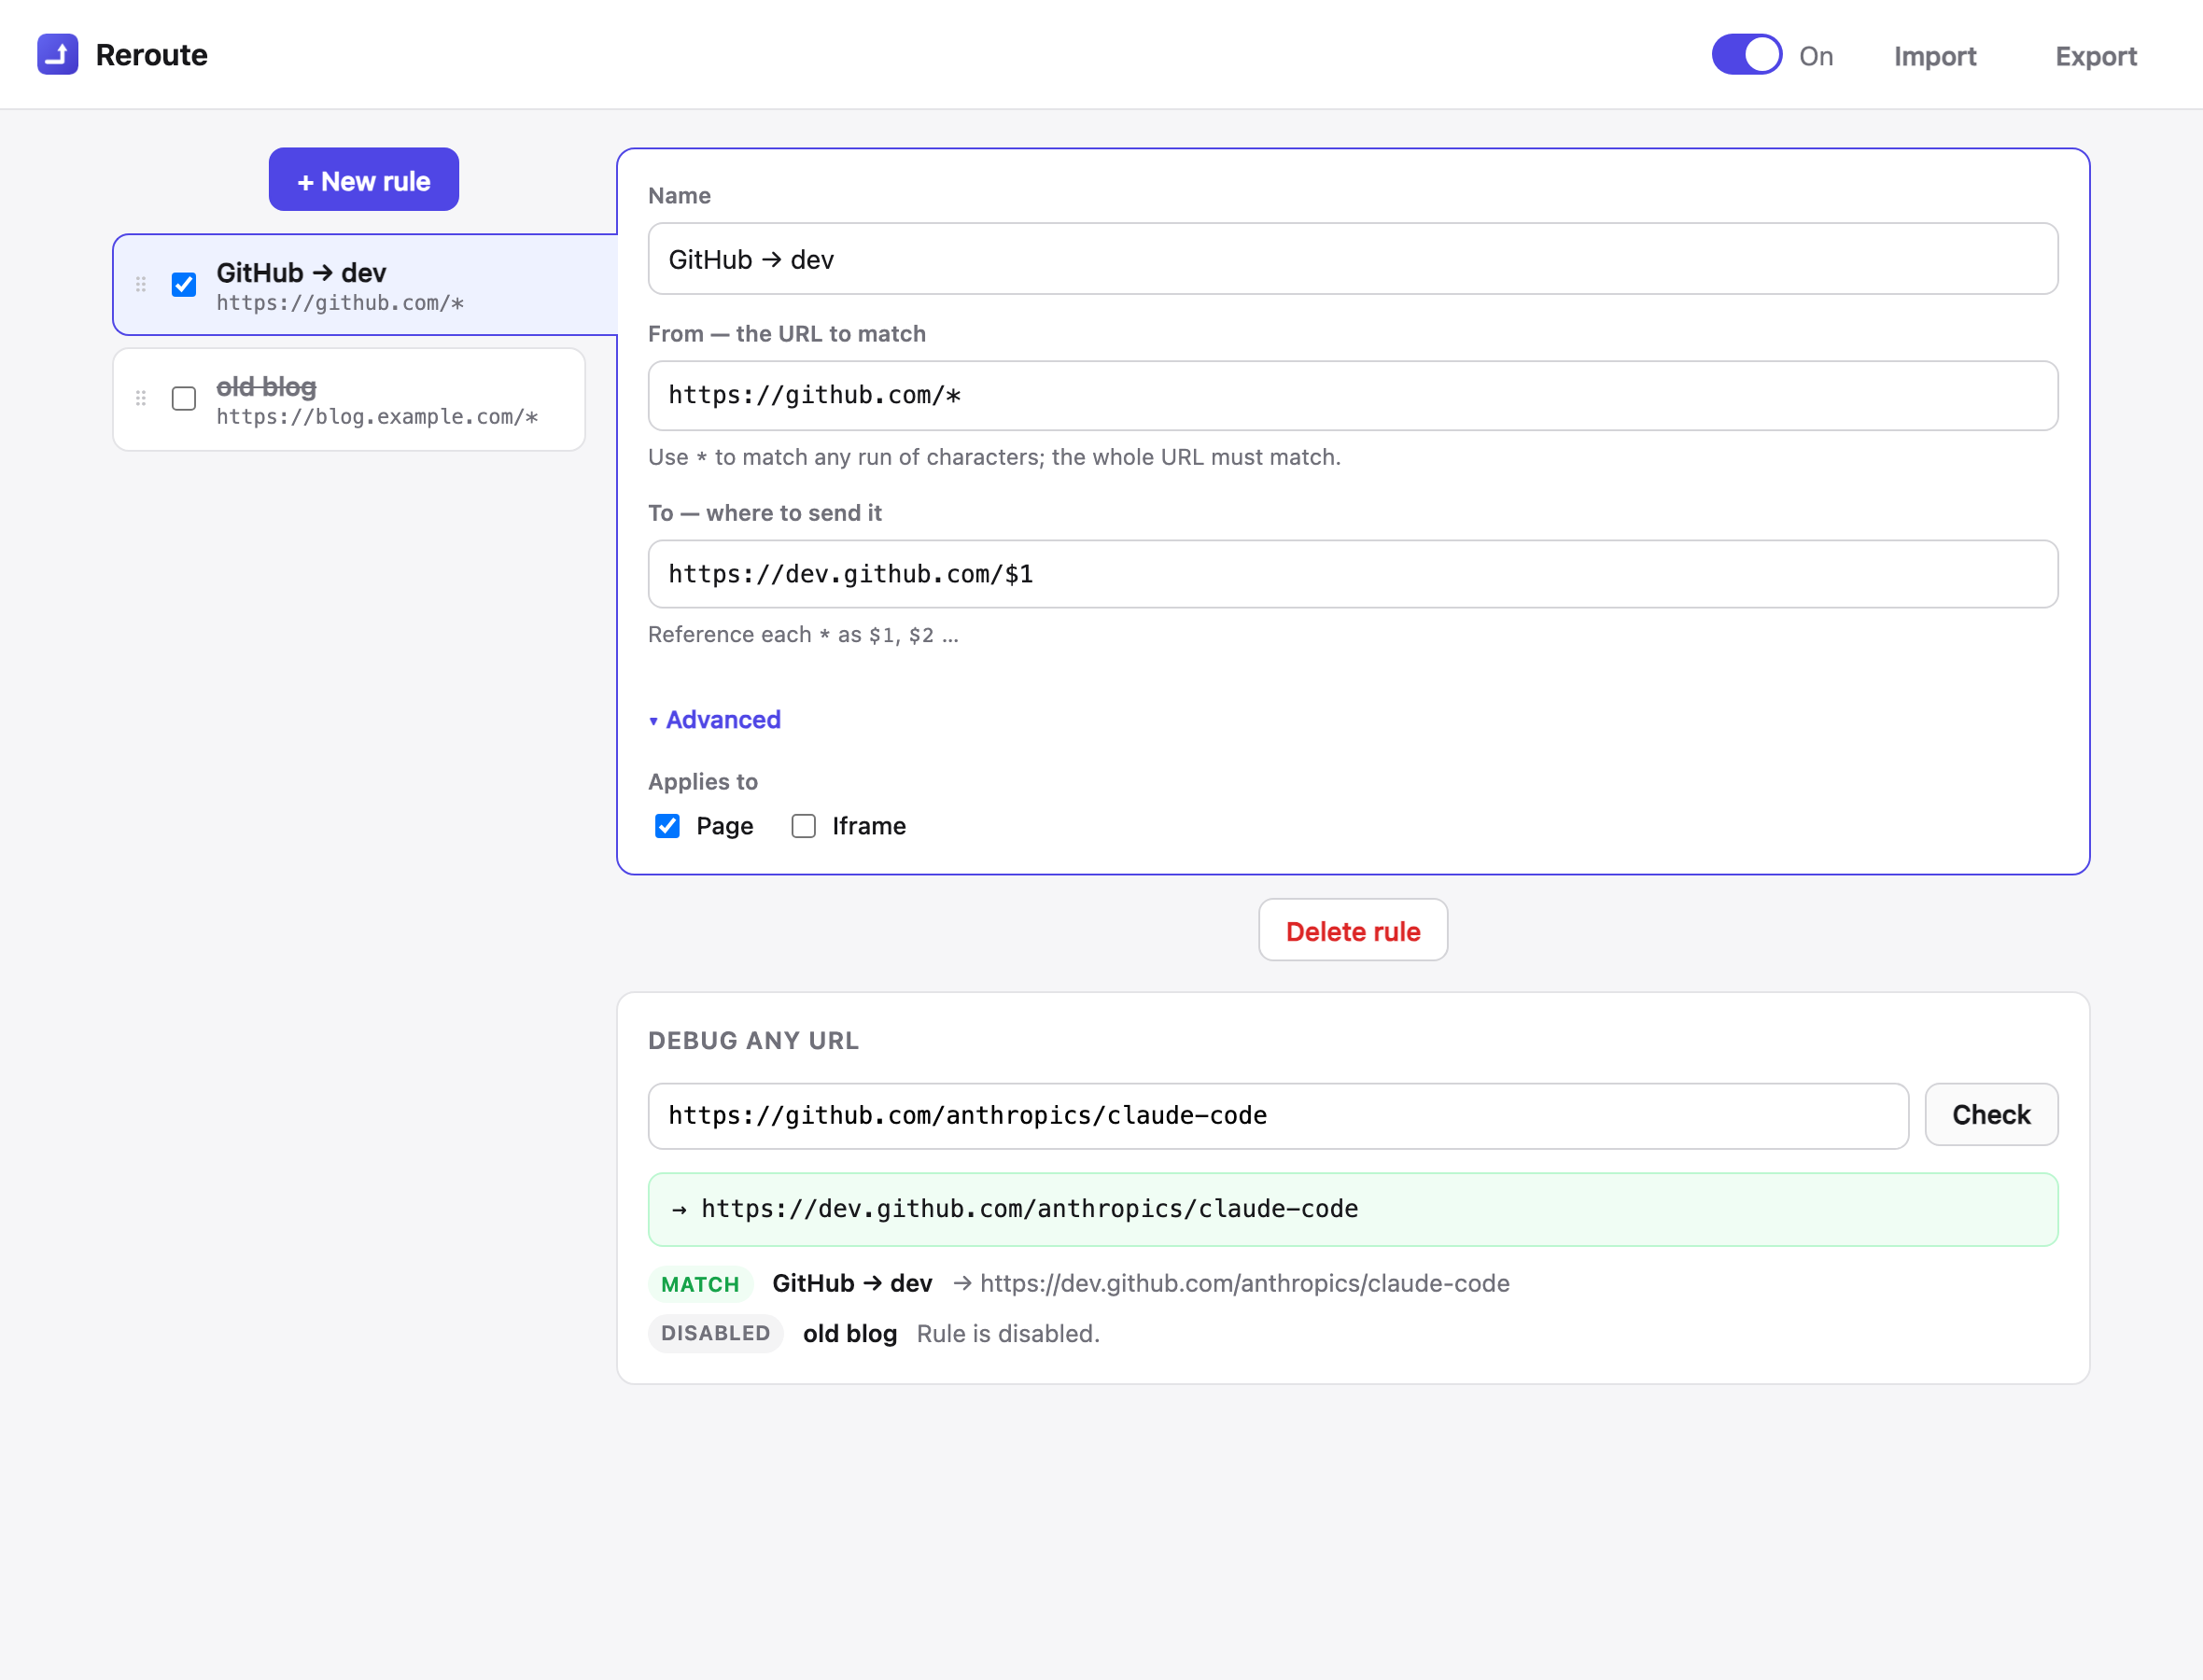
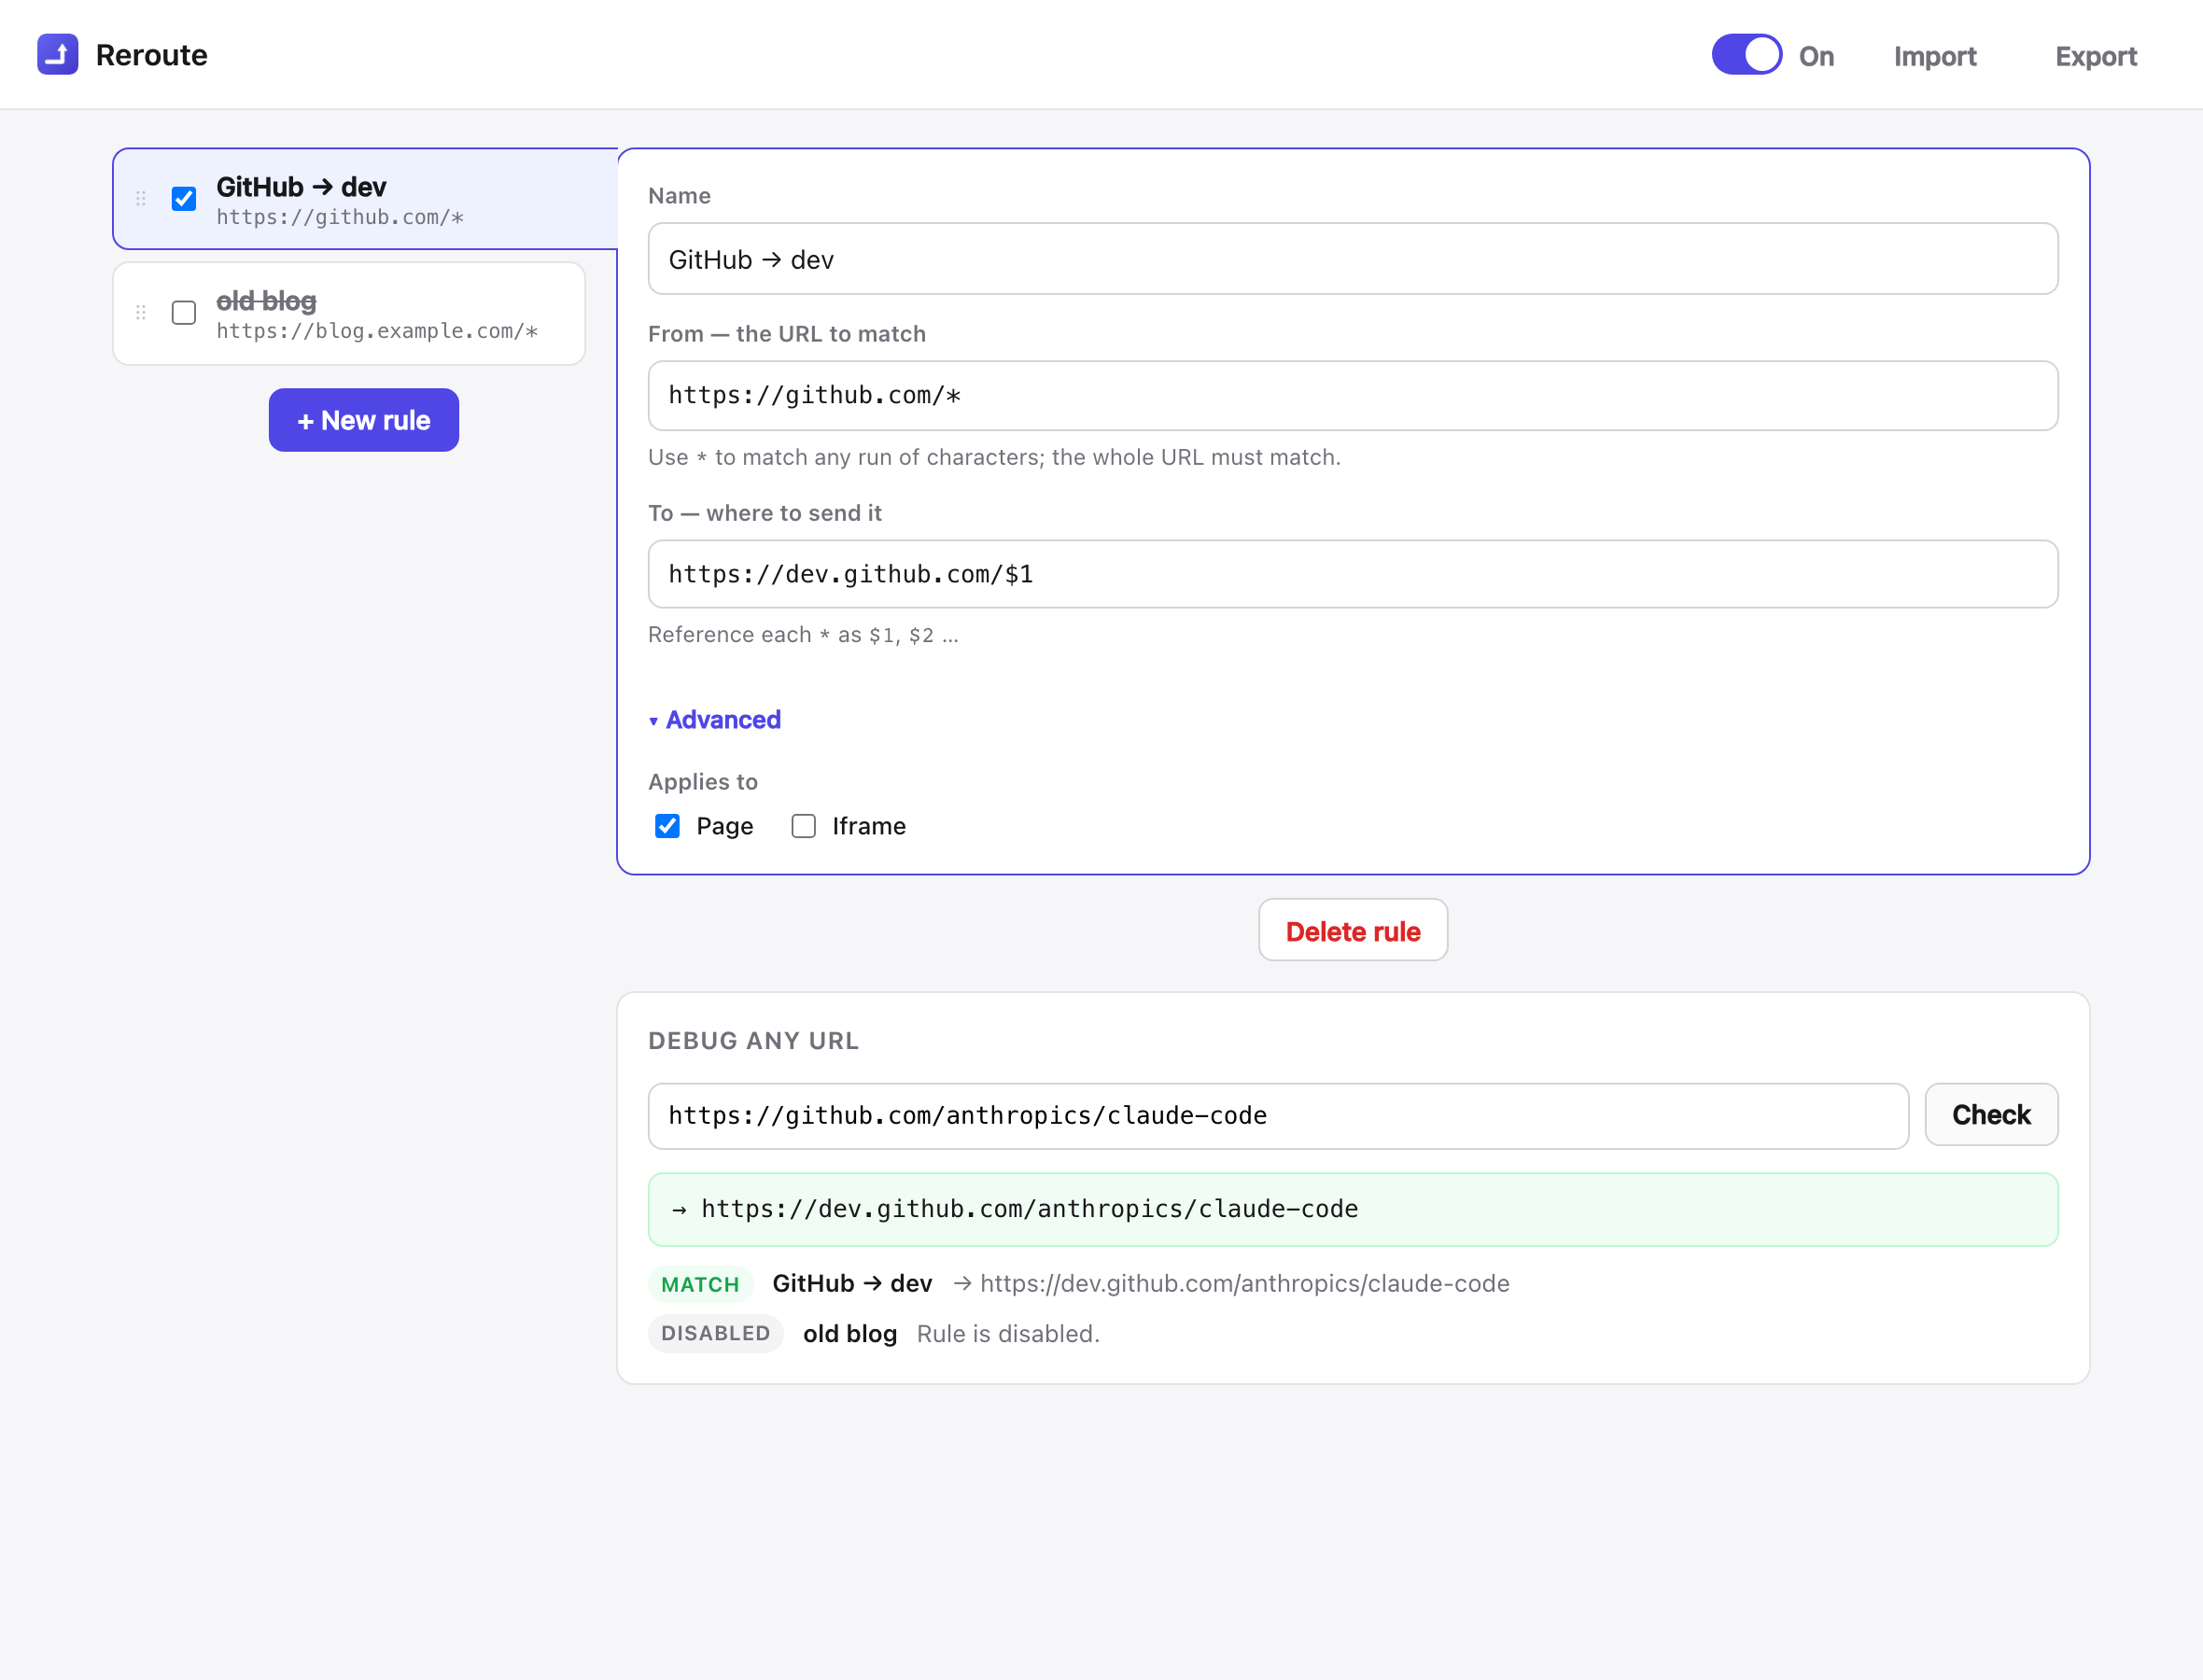
ui: top-bar font consistency, single New-rule button, unique default names
1. On/Import/Export now render identically (switch label weight 550 to match the
   buttons + page-wide font smoothing) — fixes the antialiasing mismatch
2. Remove the duplicate '+ New rule' button from the center empty state
3. Center the 'No rules yet' message so it aligns with the New-rule button
4. Move the '+ New rule' button below the rule list (was above)
5. New rules get a unique incrementing default name 'New rule N' (skips taken names)

test/ui.mjs: +5 checks (default-name increment, empty-state has no center button,
sidebar holds the only New-rule button) → 18 UI checks; 25 node tests green.

Changed region(s): [[0.0619, 0.0622, 0.2475, 0.28]]

diff --git a/ui/options.js b/ui/options.js
@@ -94,8 +94,7 @@ function renderEditor() {
   if (!rule) {
     host.append(
       el('div', { class: 'card editor-empty' },
-        el('p', {}, 'Select a rule on the left, or create one to start.'),
-        el('button', { class: 'btn primary', onclick: newRule }, '+ New rule'))
+        el('p', {}, 'Select a rule to edit it, or add one with “+ New rule”.'))
     );
     return;
   }
@@ -209,8 +208,15 @@ function buildDebugger() {
 }
 
 // ---------- actions ----------
+// "New rule N" with the smallest N not already taken by an existing rule name.
+function nextRuleName() {
+  const taken = new Set(state.rules.map((r) => r.name));
+  let n = 1;
+  while (taken.has(`New rule ${n}`)) n++;
+  return `New rule ${n}`;
+}
 function newRule() {
-  const rule = { id: uid(), name: 'New rule', enabled: true, from: '', to: '', resourceTypes: ['main_frame'] };
+  const rule = { id: uid(), name: nextRuleName(), enabled: true, from: '', to: '', resourceTypes: ['main_frame'] };
   state.rules.unshift(rule);
   state.selectedId = rule.id;
   renderList();

diff --git a/ui/options.css b/ui/options.css
@@ -22,6 +22,8 @@ html, body {
   background: var(--bg);
   color: var(--text);
   font: 14px/1.5 system-ui, -apple-system, "Segoe UI", Roboto, sans-serif;
+  -webkit-font-smoothing: antialiased;
+  -moz-osx-font-smoothing: grayscale;
 }
 
 /* ---------- top bar ---------- */
@@ -75,7 +77,7 @@ html, body {
 }
 .switch input:checked + .switch-track { background: var(--accent); }
 .switch input:checked + .switch-track::after { transform: translateX(16px); }
-.switch-label { font-size: 14px; color: var(--muted); min-width: 24px; }
+.switch-label { font-size: 14px; font-weight: 550; color: var(--muted); min-width: 24px; }
 
 /* ---------- layout ---------- */
 .layout {
@@ -107,7 +109,7 @@ html, body {
 .rule-item .rule-name { flex: 1; font-weight: 550; white-space: nowrap; overflow: hidden; text-overflow: ellipsis; }
 .rule-item .rule-from { display: block; font: 11px/1.3 var(--mono); color: var(--muted); white-space: nowrap; overflow: hidden; text-overflow: ellipsis; }
 .rule-item .mini { display: flex; flex-direction: column; min-width: 0; flex: 1; }
-.list-empty { color: var(--muted); padding: 14px 6px; font-size: 13px; }
+.list-empty { color: var(--muted); padding: 14px 0; font-size: 13px; text-align: center; margin-right: -16px; }
 
 /* selected row connects into the editor panel (one continuous accent outline) */
 .rule-item.selected {

diff --git a/ui/options.html b/ui/options.html
@@ -26,8 +26,8 @@
 
   <main class="layout">
     <aside class="sidebar">
-      <button class="btn primary" id="new-rule-btn">+ New rule</button>
       <ul class="rule-list" id="rule-list"></ul>
+      <button class="btn primary" id="new-rule-btn">+ New rule</button>
     </aside>
     <section class="editor" id="editor"></section>
   </main>

diff --git a/docs/STRIP.md b/docs/STRIP.md
@@ -10,6 +10,7 @@ and 23 node tests pass alongside these.
 | 2 | `screenshots/02-advanced.png` | "Applies to" hidden under the Advanced toggle, revealed on click. |
 | 3 | `screenshots/03-debugger.png` | "Debug any URL" (where testing now lives): names the winning rule + resulting URL, and explains every rule (MATCH / DISABLED pills). |
 | 4 | `screenshots/04-popup.png` | Toolbar popup: global on/off, active-rule count, open editor. |
+| 5 | `screenshots/05-empty.png` | Empty state: centered "No rules yet" message aligned with the single "+ New rule" button below the list (no duplicate center button). |
 
 Not pictured (queued, see `../AWAY_LOG.md`): the live in-Chrome redirect itself — verify by
 loading unpacked in regular Chrome.